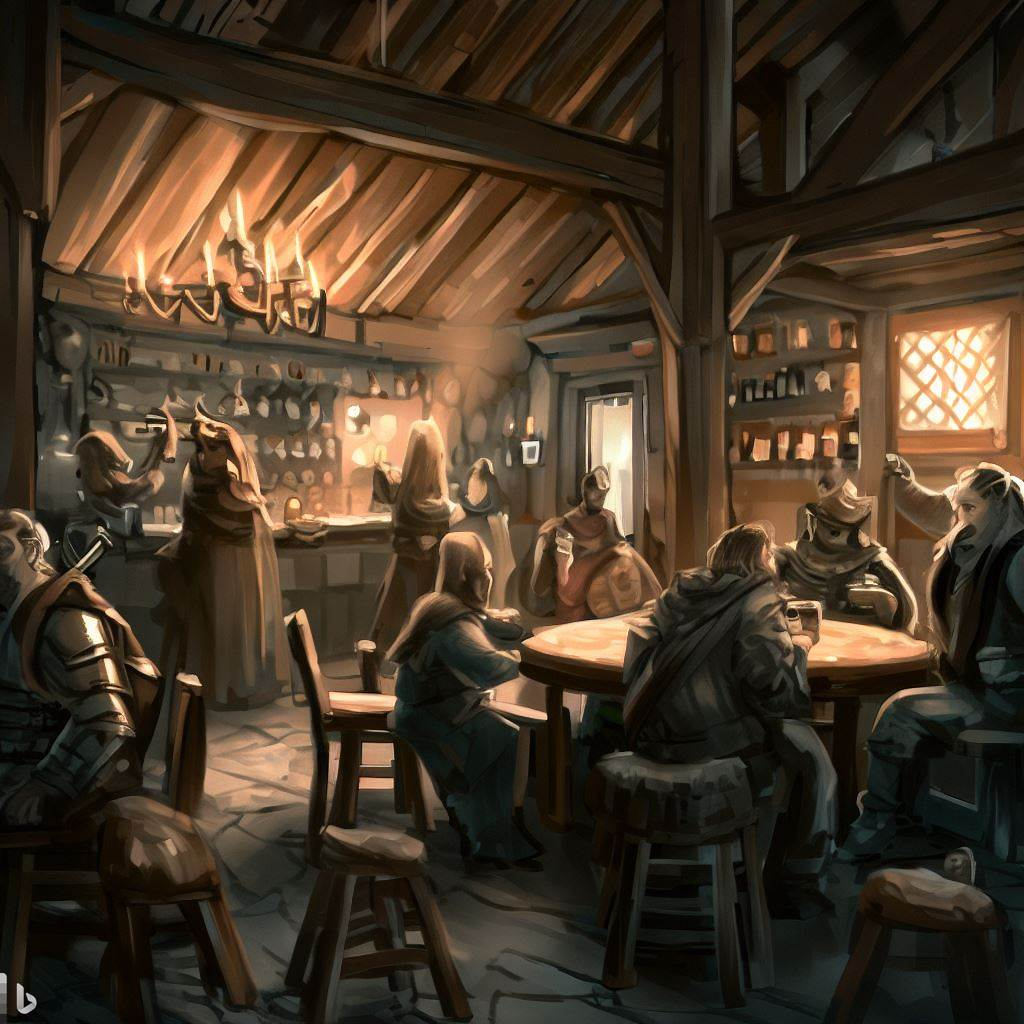
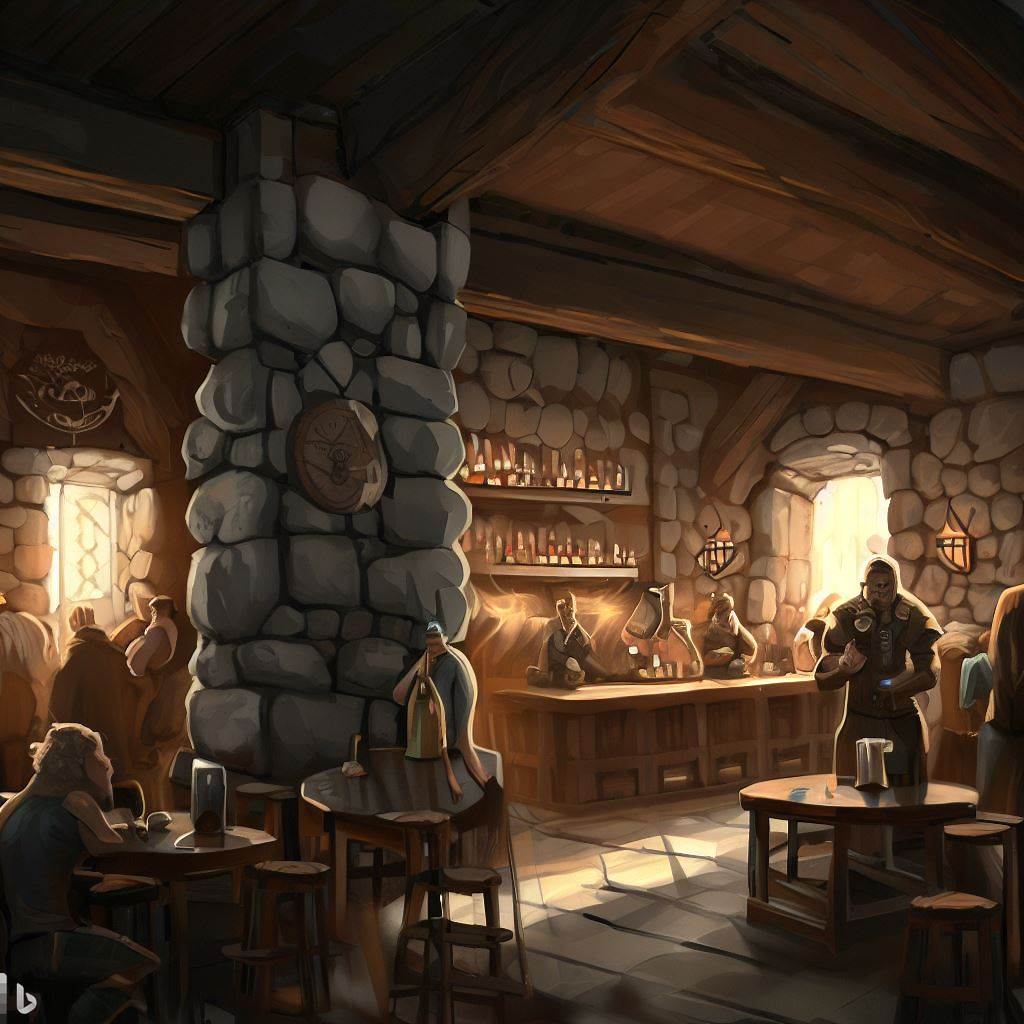
progress crossroad inn
continued progress on the crossroad inn encounter. specifically worked on the dialogue with biff firebrand.

also added images for other npcs in crossroad inn

diff --git a/index.js b/index.js
@@ -38,7 +38,8 @@ function introduction() {
     img = "/img/startscreen.jpg";
     paragraph1 = `<h3>In the realm of Vargen,</h3>`;
     paragraph2 = `Placeholder, introduction to the setting and setting up the plot`;
-    buttons = /*HTML*/`<button onclick="yourPast()">BEGIN</button>`
+    buttons = /*HTML*/`
+        <button onclick="yourPast()">BEGIN</button>`
     updateScreen()
 }
 function yourPast() {
@@ -99,11 +100,10 @@ function yourFuture() {
 function day1() {
     header = "-LEAVING HOME-";
     img = "/img/dirt-road.jpg";
-    paragraph1 = `You depart from the village of Hjort and begin your journey from home to seek out the lady.<br><br>
-    Your reasons for doing so are yours and yours alone.<br><br>Next stop, the village of Brus.`;
+    paragraph1 = `You depart from the village of Hjort and begin your journey from home to seek out the lady.<br><br>Your reasons for doing so are yours and yours alone.<br><br>Next stop, the village of Brus.`;
     paragraph2 = `<h4>YOU CHOOSE TO...</h4>`
     buttons = /*HTML*/`
-    <button onclick="dirtRoad1()">Continue</button>`;
+        <button onclick="dirtRoad1()">Continue</button>`;
     updateScreen()
 }
 function dirtRoad1() {
@@ -111,7 +111,7 @@ function dirtRoad1() {
     img = "/img/dirt-road2.jpg";
     paragraph1 = `You continue on your journey. Suddenly...`;
     buttons = /*HTML*/`
-    <button onclick="dirtRoad2()">Continue</button>`;
+        <button onclick="dirtRoad2()">Continue</button>`;
     updateScreen()
 }
 // BANDIT ENCOUNTER /////////////////////////////////
@@ -121,22 +121,23 @@ function dirtRoad2() {
         img = "/img/bandit-ambush-unsurprised.jpg";
         paragraph1 = `You spot bandits ahead. Seems their lookout didn't spot you due to your cloak of shadows`;
         buttons = /*HTML*/`
-        <button onclick="bandits()">Approach</button>
-        <button onclick="banditsSneakUp()">Sneak up</button>
-        <button onclick="banditsAvoid()">Avoid them</button>`;
+            <button onclick="bandits()">Approach</button>
+            <button onclick="banditsSneakUp()">Sneak up</button>
+            <button onclick="banditsAvoid()">Avoid them</button>`;
     } else if (playerTrinket != "Cloak of Shadows") {
         header = "-BANDITS AHEAD-";
         img = "/img/bandit-ambush-surprised.jpg";
         paragraph1 = `Bandits appear out from behind the trees. Their lookout must've spotted you. They approach...`;
         buttons = /*HTML*/`
-        <button onclick="bandits()">Continue</button>`;
+            <button onclick="bandits()">Continue</button>`;
     } else {bandits()}
     updateScreen()
 }
 function banditsSneakUp() {
     header = "-SNEAK UP ON BANDITS-";
     paragraph1 = `you sneak up on the bandits. you ready your ${playerWeapon}. you attack them and already two are down, their dog retaliates against the third bandit and the fourth on runs away in the panic`;
-    buttons = /*HTML*/`<button onclick="banditsConclusion()">Continue</button>`;
+    buttons = /*HTML*/`
+        <button onclick="banditsConclusion()">Continue</button>`;
     freedDog = true;
     updateScreen()
 }
@@ -144,7 +145,7 @@ function banditsAvoid() {
     header = "-AVOID THE BANDITS-";
     paragraph1 = `The bandits outnumber you. you decide its not work the risk and circle around the bandits so you may continue on your journey.`;
     buttons = /*HTML*/`
-    <button onclick="banditsConclusion()">Continue</button>`;
+        <button onclick="banditsConclusion()">Continue</button>`;
     updateScreen()
 }
 function bandits() {
@@ -153,24 +154,24 @@ function bandits() {
         img = "/img/bandit-ambush-surprised.jpg";
         paragraph1 = `The bandits demand your money but their dog speaks up begging for your help`;
         buttons = /*HTML*/`
-        <button onclick="banditsDog()">Continue</button>`; 
+            <button onclick="banditsDog()">Continue</button>`; 
     } else if (playerTrinket != "Amulet of Tongues") {
         if (playerTrinket == "Helmet of Illumination") {
             header = "-BANDITS-";
             img = "/img/bandit-ambush-surprised.jpg";
             paragraph1 = `The bandits demand your money`;
             buttons = /*HTML*/`
-            <button onclick="banditsUseHelmet()">Fight (Helmet of Illumination)</button>
-            <button onclick="banditsGiveGold()">Give gold</button>
-            <button onclick="banditsRunAway()">Run away</button>`;
+                <button onclick="banditsUseHelmet()">Fight (Helmet of Illumination)</button>
+                <button onclick="banditsGiveGold()">Give gold</button>
+                <button onclick="banditsRunAway()">Run away</button>`;
         } else if (playerTrinket != "Helmet of Illumination") {
             header = "-BANDITS-";
             img = "/img/bandit-ambush-surprised.jpg";
             paragraph1 = `Bandits demand your money, does not have helmet`;
             buttons = /*HTML*/`
-            <button onclick="banditsFight()">Fight</button>
-            <button onclick="banditsGiveGold()">Give gold</button>
-            <button onclick="banditsRunAway()">Run away</button>`;
+                <button onclick="banditsFight()">Fight</button>
+                <button onclick="banditsGiveGold()">Give gold</button>
+                <button onclick="banditsRunAway()">Run away</button>`;
         } else {banditsFight()}
     }
     updateScreen()
@@ -179,7 +180,8 @@ function banditsDog() {
     header = "-BANDITS DOG-";
     img = "/img/dog.jpg";
     paragraph1 = `The dog begs you to help him escape, advicing you to mention the name of the bandit chief`;
-    buttons = `<button onclick="banditsDog2()">Continue</button>`; 
+    buttons = /*HTML*/`
+        <button onclick="banditsDog2()">Continue</button>`; 
     updateScreen()
 }
 function banditsDog2() {
@@ -187,22 +189,24 @@ function banditsDog2() {
     img = "/img/bandit-ambush-surprised.jpg";
     paragraph1 = `Bandits demand your money`;
     buttons = /*HTML*/`
-    <button onclick="banditsTricked()">Trick bandits (Amulet of Tongues)</button>
-    <button onclick="banditsFight()">Fight</button>
-    <button onclick="banditsGiveGold()">Give gold</button>
-    <button onclick="banditsRunAway()">Run away</button>`;
+        <button onclick="banditsTricked()">Trick bandits (Amulet of Tongues)</button>
+        <button onclick="banditsFight()">Fight</button>
+        <button onclick="banditsGiveGold()">Give gold</button>
+        <button onclick="banditsRunAway()">Run away</button>`;
     updateScreen()
 }
 function banditsTricked() {
     paragraph1 = `You convince the bandits that your here on the bandit chief behalf in order to take the dog`;
-    buttons = `<button onclick="banditsConclusion()">Continue</button>`;
+    buttons = /*HTML*/`
+        <button onclick="banditsConclusion()">Continue</button>`;
     freedDog = true;
     updateScreen()
 }
 function banditsUseHelmet() {
     img = "/img/bandits-blinded-by-light.jpg";
     paragraph1 = `the helmets light blinds the bandits, leaving you to make short work of them. the dog lashes out at its master as soon as he drops the leash`;
-    buttons = `<button onclick="banditsConclusion()">Continue</button>`;
+    buttons = /*HTML*/`
+        <button onclick="banditsConclusion()">Continue</button>`;
     freedDog = true;
     updateScreen()
 }
@@ -211,31 +215,31 @@ function banditsFight() {
         if (playerArmor == "Heavy Armor") {
             paragraph1 = `you draw your sword. the dog attacks one bandit. another runs away. the other two charge at you. you fend one off and the other one lands a blow. luckily it bounces off your heavy breastplate, leaving you unharmed`;
             buttons = /*HTML*/`
-            <button onclick="banditsConclusion()">Continue</button>`;
+                <button onclick="banditsConclusion()">Continue</button>`;
         } else if (playerArmor != "Heavy Armor") {
             paragraph1 = `you draw your sword. the dog attacks one bandit. another runs away. the other two charge at you. you fend one off but the other lands a viscious blow.`;
             buttons = /*HTML*/`
-            <button onclick="banditsConclusion()">Continue</button>`;
+                <button onclick="banditsConclusion()">Continue</button>`;
         }
     } else if (playerWeapon == "Longbow") {
         if (playerArmor == "Heavy Armor") {
             paragraph1 = `you draw your bow. the dog attacks one bandit. another runs away. the other two charge at you. you manage to shoot one but the other lands a blow. Luckily it bounces of your heavy breastplate`;
             buttons = /*HTML*/`
-            <button onclick="banditsConclusion()">Continue</button>`;
+                <button onclick="banditsConclusion()">Continue</button>`;
         } else if (playerArmor != "Heavy Armor") {
             paragraph1 = `you draw your bow. the dog attacks one bandit. another runs away. the other two charge at you. you manage to shoot one but the other lands a viscious blow..`;
             buttons = /*HTML*/`
-            <button onclick="banditsConclusion()">Continue</button>`;
+                <button onclick="banditsConclusion()">Continue</button>`;
         }
     } else if (playerWeapon == "Magic") {
         if (playerArmor == "Heavy Armor") {
             paragraph1 = `you draw your staff. the dog attacks one bandit. another runs away. the other two charge at you. you manage to throw a firebolt at one but the other lands a blow. luckily it bounces of your heavy breastplate`;
             buttons = /*HTML*/`
-            <button onclick="banditsConclusion()">Continue</button>`;
+                <button onclick="banditsConclusion()">Continue</button>`;
         } else if (playerArmor != "Heavy Armor") {
             paragraph1 = `you draw your staff. the dog attacks one bandit. another runs away. the other two charge at you. you manage to throw a firebolt at one but the other lands a viscious blow..`;
             buttons = /*HTML*/`
-            <button onclick="banditsConclusion()">Continue</button>`;
+                <button onclick="banditsConclusion()">Continue</button>`;
         }
     } else {banditsConclusion()};
     freedDog = true;
@@ -244,13 +248,13 @@ function banditsFight() {
 function banditsRunAway() {
     paragraph1 = `Your run away from the bandits`;
     buttons = /*HTML*/`
-    <button onclick="banditsConclusion()">Continue</button>`;
+        <button onclick="banditsConclusion()">Continue</button>`;
     updateScreen()
 }
 function banditsGiveGold() {
     paragraph1 = `You give the bandits all your gold`;
     buttons = /*HTML*/`
-    <button onclick="banditsConclusion()">Continue</button>`;
+        <button onclick="banditsConclusion()">Continue</button>`;
     updateScreen()
 }
 function banditsConclusion() {
@@ -258,7 +262,7 @@ function banditsConclusion() {
     img = "/img/dirt-road.jpg";
     paragraph1 = `you continue on your journey after having dealt with the bandits, many more trials ahead.`;
     buttons = /*HTML*/`
-    <button onclick="dogGreetsYou()">Continue</button>`;
+        <button onclick="dogGreetsYou()">Continue</button>`;
     updateScreen()
 }
 // BANDIT ENCOUNTER OVER ////////////////////////////
@@ -270,13 +274,13 @@ function dogGreetsYou() {
             img = "/img/dog.jpg";
             paragraph1 = `the dog says thank you and follows you`;
             buttons = /*HTML*/`
-            <button onclick="">Continue</button>`; 
+                <button onclick="">Continue</button>`; 
         } else if (playerTrinket != "Amulet of Tongues") {
             header = "-DOG-";
             img = "/img/dog.jpg";
             paragraph1 = `the dog follows you`;
             buttons = /*HTML*/`
-            <button onclick="">Continue</button>`; 
+                <button onclick="">Continue</button>`; 
         } else {console.log("Error, dogGreetsYou() function")}
     } else if (freedDog != true) {
         followRoadOrThroughForest()
@@ -288,29 +292,109 @@ function followRoadOrThroughForest() {
     img = "/img/dirt-road.jpg";
     paragraph1 = `Your encounter with the bandits have led you to consider wheter or not following the road is the best course of action.`;
     buttons = /*HTML*/`
-    <button onclick="crossroadInn()">Stay on the road</button>
-    <button onclick="">Go through the forest</button>`; 
+        <button onclick="crossroadInn()">Stay on the road</button>
+        <button onclick="">Go through the forest</button>`; 
     updateScreen()
 }
 // CHOOSE TO FOLLOW THE ROAD ////////////////////////
+// CROSSROAD INN ////////////////////////////////////
 function crossroadInn() {
     header = "-CROSSROAD INN-";
     img = "/img/crossroad-inn.jpg";
     paragraph1 = `You come across the famous Crossroad Inn, the intersection between the four towns of:<br><br>HJORT<br>Your home,<br>a humble waypoint towards the city of Grundheim.<br><br>DRUGE<br>A dwarven cesspool,<br>filled with thieves and refugees from Trollhall.<br><br> EGGON<br>A well respected shipwright village,<br>also known for harboring pirates.<br><br> BRUS<br>The birthplace of legends and fools,<br>in the shadow of Mournstone Mountain.<br>And your destination.<br><br>All sorts of people pass through here.`;
     buttons = /*HTML*/`
-    <button onclick="crossroadInnInterior()">Enter</button>`
+        <button onclick="crossroadInnInterior()">Enter</button>`
     updateScreen()
 }
-crossroadInn()
 function crossroadInnInterior() {
     img = "/img/crossroad-inn-interior.jpg";
+    paragraph1 = `You enter the crossroad Inn`;
+    buttons = /*HTML*/`
+        <button onclick="crossroadLookAround()">Look around</button>
+        <button onclick="">Leave</button>`; 
+    updateScreen()
+}
+function crossroadLookAround() {
+    paragraph1 = `You look around and see:<br><br>The barkeep behind the counter.<br><br>An unamused elf standing guard. She's strong and tall in stature.<br><br>A dwarf with fiery red hair questioning patrons by the bar.<br><br>A man with his back turned to you.<br>He's wearing the iconic green cloak og the Staghelm rangers.<br>The protectors of the roads within the Staghelm domain.`;
+    buttons = /*HTML*/`
+        <button onclick="crossroadTalkToBarkeep()">Talk to the barkeep</button>
+        <button onclick="crossroadTalToElf()">Talk to the elf</button>
+        <button onclick="biffFirebrand()">Talk to the dwarf</button>
+        <button onclick="crossroadTalkToRanger()">Talk to the ranger</button>
+        <button onclick="crossroadTalkToShipwright()">Talk to the shipwright</button>
+        <button onclick="">Leave</button>`; 
+    updateScreen()
+}
+crossroadInnInterior()
+function crossroadTalkToBarkeep() {
+    header = "-BARKEEP-";
+    img = "/img/crossroad-barkeep.jpg";
     paragraph1 = ``;
     buttons = /*HTML*/`
-    <button onclick="">Look around</button>
-    <button onclick="">Leave</button>`; 
+        <button onclick=""></button>`
+    updateScreen()
+}
+function crossroadTalToElf() {
+    header = "-ELF GUARD-";
+    img = "/img/crossroad-elf.jpg";
+    paragraph1 = ``;
+    buttons = /*HTML*/`
+        <button onclick=""></button>`
     updateScreen()
 }
 
+
+
+
+function biffFirebrand() {
+    header = "-BIFF FIREBRAND-";
+    img = "/img/crossroad-dwarf.jpg";
+    paragraph1 = `"Ye there!"<br><br>The red haired dwarf bursts out before you have time to react.<br><br>"Ye haven't by any chance seen a red haired dwarf lately have ye? About yay tall, dumb as a rock and ugly as a troll?"<br><br>He illustrates by bringing his hand up to about his own height`;
+    buttons = /*HTML*/`
+        <button onclick="biffFirebrandPoint()">Point at him</button>
+        <button onclick="biffFirebrandNo()">No</button>`
+    updateScreen()
+}
+function biffFirebrandPoint() {
+    paragraph1 = `The dwarf seems confused for a moment before it suddenly dawns on him and his face sours.<br><br>"Shove that finger BACK up yer ARSE where it BELONGS ya STINKIN TROGLODYTE!"<br><br>The dwarf takes a moment to collect himself.<br><br>"I'm looking fer me little brother... have heart will ye?<br>No need fer insulting a dwarfs good looks."`;
+    buttons = /*HTML*/`
+        <button onclick="biffFirebrandAskAboutBrother()">Continue</button>`
+    updateScreen()
+}
+function biffFirebrandNo() {
+    paragraph1 = `"Well if ye see him ye tell him this fer me:<br><br>GET yer ARSE back over to DRUGE or we're doin the GOD'S DAMNED SIEGE without ye, ya damn PIECE O' LOAF!"<br><br>The dwarf takes a moment to collect himself.<br><br>"Ye got that?"`;
+    buttons = /*HTML*/`
+        <button onclick="biffFirebrandAskAboutBrother()">Continue</button>`
+    updateScreen()
+}
+function biffFirebrandAskAboutBrother() {
+    paragraph1 = `"Shite, forgot to INTRODUCE MESELF!<br>Name's BIFF Firebrand, eldest of the Firebrand family and proprietor of Firebrand Brandy Breweries!"<br><br>His posture seems to gain a little for every word.<br><br>"FINEST BREWERY in ALL of TROLLHALL! Though as you might've heard the Trollhalls ain't exactly dwarven territory right now."<br><br>The mood darkens.<br><br>"Which is why we're taking the fight BACK to them TROLLS! But then little Diff had to go and get himself lost... Again..."<br><br>Biff lets out a heavy sigh<br><br>"Please, if ya see him?<br>Just tell him to come back home..."`;
+    buttons = /*HTML*/`
+        <button onclick="biffFirebrandAskAboutBrother()">Leave</button>`
+    updateScreen()
+}
+
+
+
+
+
+
+function crossroadTalkToRanger() {
+    header = "-STAGHELM RANGER-";
+    img = "/img/crossroad-ranger.jpg";
+    paragraph1 = ``;
+    buttons = /*HTML*/`
+        <button onclick=""></button>`
+    updateScreen()
+}
+function crossroadTalkToShipwright() {
+    header = "-EGGON SHIPWRIGHT-";
+    img = "/img/crossroad-shipwright.jpg";
+    paragraph1 = ``;
+    buttons = /*HTML*/`
+        <button onclick=""></button>`
+    updateScreen()
+}
 
 
 // CHOOSE TO GO THROUGH FOREST //////////////////////
